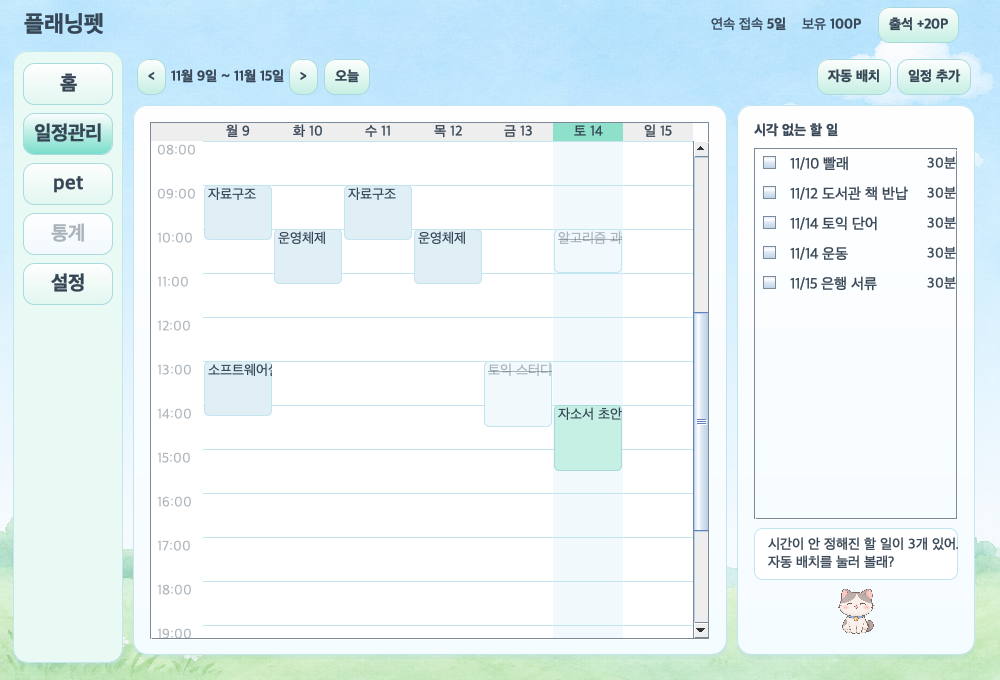
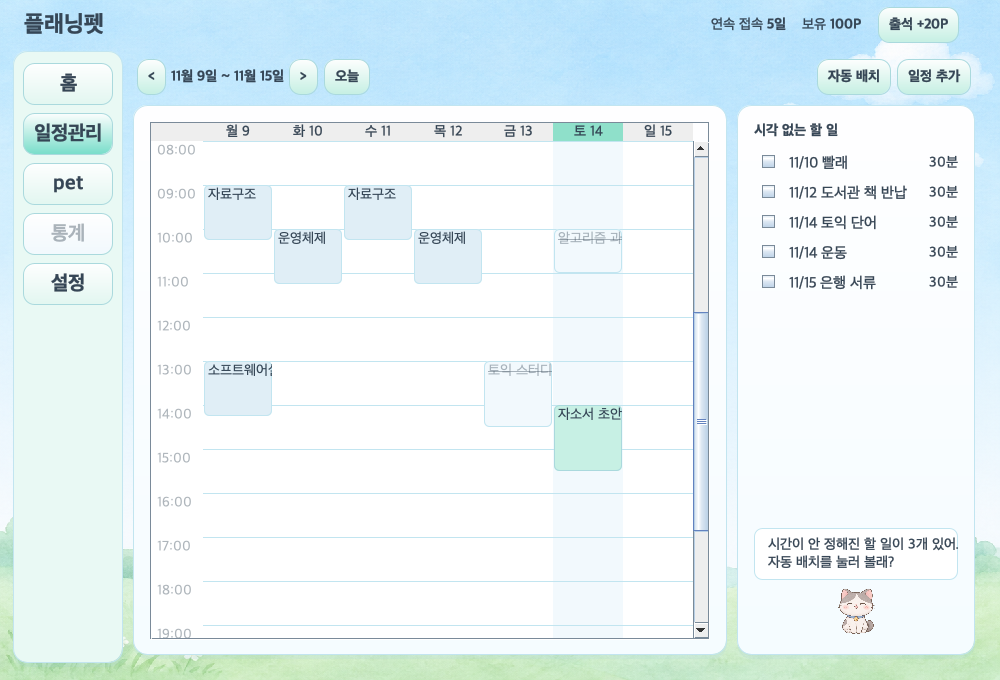
fix(prototype): 일정관리 오른쪽 목록 테두리와 글자 잘림 (#48)

Changed region(s): [[0.744, 0.2162, 0.961, 0.4324]]

diff --git a/prototype/src/planningpet/proto/ScheduleScreen.java b/prototype/src/planningpet/proto/ScheduleScreen.java
@@ -57,7 +57,10 @@ public final class ScheduleScreen extends JPanel {
         JPanel side = new Card(new BorderLayout(0, 8));
         side.setPreferredSize(new Dimension(240, 0));
         side.add(new JLabel("<html><b>시각 없는 할 일</b></html>"), BorderLayout.NORTH);
-        side.add(new JScrollPane(untimed), BorderLayout.CENTER);
+        JScrollPane sideScroll = new JScrollPane(untimed, JScrollPane.VERTICAL_SCROLLBAR_AS_NEEDED,
+                JScrollPane.HORIZONTAL_SCROLLBAR_NEVER);
+        sideScroll.setBorder(BorderFactory.createEmptyBorder());
+        side.add(sideScroll, BorderLayout.CENTER);
         JPanel petCorner = new JPanel(new BorderLayout());
         petCorner.add(bubble, BorderLayout.NORTH);
         petCorner.add(new PetView(app.store, 1), BorderLayout.CENTER);
